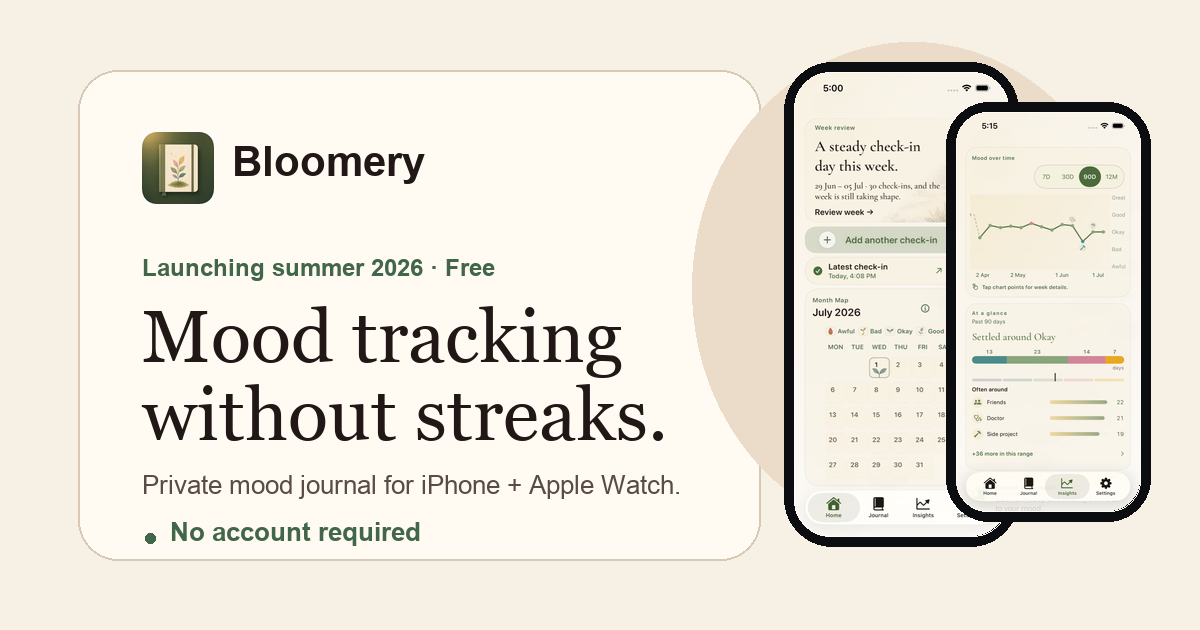
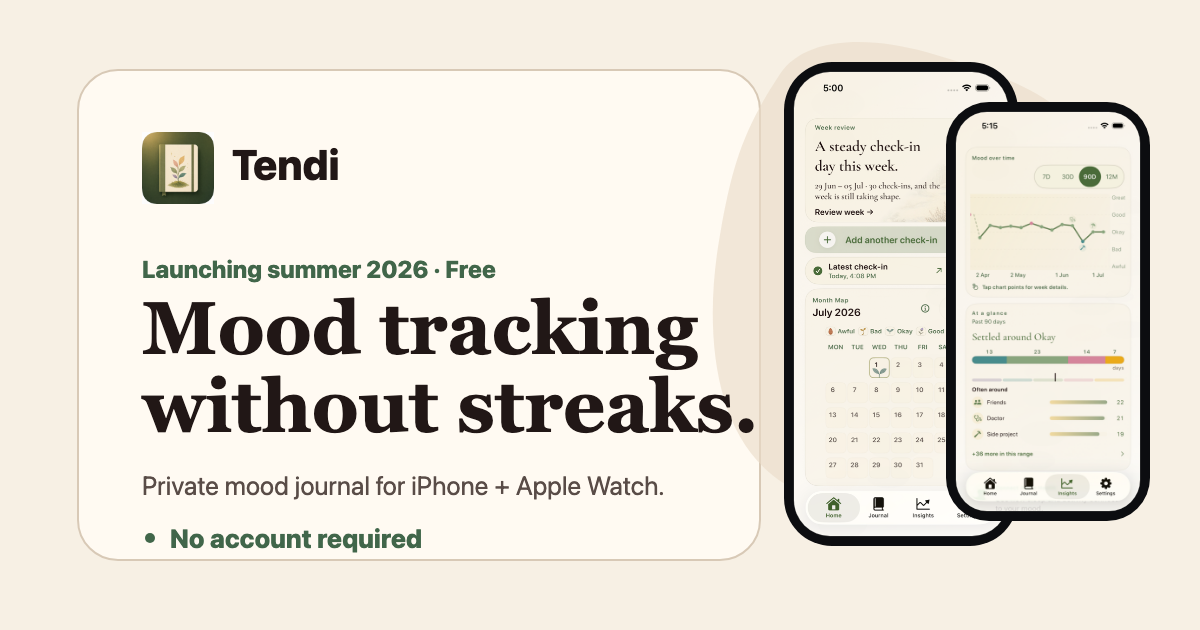
Rename launch site to Tendi

diff --git a/index.html b/index.html
@@ -3,25 +3,25 @@
 <head>
     <meta charset="UTF-8">
     <meta name="viewport" content="width=device-width, initial-scale=1.0">
-    <meta name="description" content="Bloomery is a private iPhone and Apple Watch mood journal for quick check-ins and smart insights with no streaks or guilt.">
+    <meta name="description" content="Tendi is a private iPhone and Apple Watch mood journal for quick check-ins and smart insights with no streaks or guilt.">
     <meta name="theme-color" content="#F7F0E4">
-    <title>Bloomery - Mood tracking without streaks.</title>
-    <link rel="canonical" href="https://bloomery.app/">
+    <title>Tendi: Mood Journal - Mood tracking without streaks.</title>
+    <link rel="canonical" href="https://tendijournal.app/">
     <meta property="og:type" content="website">
-    <meta property="og:site_name" content="Bloomery">
-    <meta property="og:title" content="Bloomery - Mood tracking without streaks.">
+    <meta property="og:site_name" content="Tendi">
+    <meta property="og:title" content="Tendi: Mood Journal - Mood tracking without streaks.">
     <meta property="og:description" content="Quick mood check-ins and smart insights for iPhone and Apple Watch.">
-    <meta property="og:url" content="https://bloomery.app/">
-    <meta property="og:image" content="https://bloomery.app/social-card.png">
+    <meta property="og:url" content="https://tendijournal.app/">
+    <meta property="og:image" content="https://tendijournal.app/social-card.png">
     <meta property="og:image:type" content="image/png">
     <meta property="og:image:width" content="1200">
     <meta property="og:image:height" content="630">
-    <meta property="og:image:alt" content="Bloomery - mood tracking without streaks.">
+    <meta property="og:image:alt" content="Tendi - mood tracking without streaks.">
     <meta name="twitter:card" content="summary_large_image">
-    <meta name="twitter:title" content="Bloomery - Mood tracking without streaks.">
+    <meta name="twitter:title" content="Tendi: Mood Journal - Mood tracking without streaks.">
     <meta name="twitter:description" content="Quick mood check-ins and smart insights for iPhone and Apple Watch.">
-    <meta name="twitter:image" content="https://bloomery.app/social-card.png">
-    <meta name="twitter:image:alt" content="Bloomery - mood tracking without streaks.">
+    <meta name="twitter:image" content="https://tendijournal.app/social-card.png">
+    <meta name="twitter:image:alt" content="Tendi - mood tracking without streaks.">
     <link rel="preload" href="assets/fonts/Fraunces-opsz-wght-latin.woff2" as="font" type="font/woff2" crossorigin>
     <link rel="stylesheet" href="styles.css">
     <link rel="icon" type="image/png" href="assets/favicon.png">
@@ -30,15 +30,15 @@
 <body>
     <a href="#main" class="skip-link">Skip to content</a>
 
-    <header class="site-header" aria-label="Bloomery website">
-        <a class="site-mark" href="index.html" aria-label="Bloomery home">
+    <header class="site-header" aria-label="Tendi website">
+        <a class="site-mark" href="index.html" aria-label="Tendi home">
             <img class="site-icon" src="assets/app-icon.png" alt="" width="34" height="34" decoding="async">
-            <span>Bloomery</span>
+            <span>Tendi</span>
         </a>
         <nav class="site-nav" aria-label="Primary">
             <a href="#inside">Inside the app</a>
             <a href="privacy.html">Privacy</a>
-            <a href="https://feedback.bloomery.app">Feedback</a>
+            <a href="https://feedback.tendijournal.app">Feedback</a>
             <a href="mailto:[email redacted]">Support</a>
             <a class="nav-cta" href="#join">Join the list</a>
         </nav>
@@ -55,7 +55,7 @@
                 </p>
 
                 <form class="waitlist-form" action="https://buttondown.com/api/emails/embed-subscribe/bloomery" method="post" target="popupwindow">
-                    <label class="visually-hidden" for="hero-email">Email address for Bloomery launch updates</label>
+                    <label class="visually-hidden" for="hero-email">Email address for Tendi launch updates</label>
                     <input id="hero-email" name="email" type="email" inputmode="email" autocomplete="email" placeholder="[email redacted]" required aria-describedby="hero-email-note">
                     <button type="submit">Notify me at launch</button>
                 </form>
@@ -63,7 +63,7 @@
 
                 <ul class="trust-strip">
                     <li>No account required</li>
-                    <li>Journal content stays off Bloomery servers</li>
+                    <li>Journal content stays off Tendi servers</li>
                     <li>No ads or journal-content AI training</li>
                 </ul>
             </div>
@@ -72,13 +72,13 @@
                 <figure class="device hero-device hero-device-home">
                     <picture>
                         <source srcset="assets/screenshot-home.webp" type="image/webp">
-                        <img src="assets/screenshot-home.png" alt="Bloomery Home screen showing this week's mood takeaway and a Month Map calendar." width="424" height="920" decoding="async" fetchpriority="high">
+                        <img src="assets/screenshot-home.png" alt="Tendi Home screen showing this week's mood takeaway and a Month Map calendar." width="424" height="920" decoding="async" fetchpriority="high">
                     </picture>
                 </figure>
                 <figure class="device hero-device hero-device-insights">
                     <picture>
                         <source srcset="assets/screenshot-insights.webp" type="image/webp">
-                        <img src="assets/screenshot-insights.png" alt="Bloomery Insights screen showing a mood-over-time chart and recent patterns." width="424" height="920" decoding="async">
+                        <img src="assets/screenshot-insights.png" alt="Tendi Insights screen showing a mood-over-time chart and recent patterns." width="424" height="920" decoding="async">
                     </picture>
                 </figure>
             </div>
@@ -97,7 +97,7 @@
         <section class="section" id="inside" aria-labelledby="inside-title">
             <div class="section-inner">
                 <div class="section-heading reveal">
-                    <p class="eyebrow">Inside Bloomery</p>
+                    <p class="eyebrow">Inside Tendi</p>
                     <h2 id="inside-title">Mood notes that stay useful, even when life gets uneven.</h2>
                 </div>
 
@@ -106,7 +106,7 @@
                         <figure class="device device--sm feature-device">
                             <picture>
                                 <source srcset="assets/screenshot-checkin.webp" type="image/webp">
-                                <img src="assets/screenshot-checkin.png" alt="Bloomery check-in screen showing the simple mood picker." width="424" height="920" loading="lazy" decoding="async">
+                                <img src="assets/screenshot-checkin.png" alt="Tendi check-in screen showing the simple mood picker." width="424" height="920" loading="lazy" decoding="async">
                             </picture>
                         </figure>
                         <div class="feature-copy">
@@ -120,7 +120,7 @@
                         <figure class="device device--sm feature-device">
                             <picture>
                                 <source srcset="assets/screenshot-entry-detail.webp" type="image/webp">
-                                <img src="assets/screenshot-entry-detail.png" alt="Bloomery entry detail screen with mood context, note, and activities. The pressed flower specimen represents the chosen emotion." width="424" height="920" loading="lazy" decoding="async">
+                                <img src="assets/screenshot-entry-detail.png" alt="Tendi entry detail screen with mood context, note, and activities. The pressed flower specimen represents the chosen emotion." width="424" height="920" loading="lazy" decoding="async">
                             </picture>
                         </figure>
                         <div class="feature-copy">
@@ -134,13 +134,13 @@
                         <figure class="device device--sm feature-device">
                             <picture>
                                 <source srcset="assets/screenshot-insights.webp" type="image/webp">
-                                <img src="assets/screenshot-insights.png" alt="Bloomery Insights screen showing a mood-over-time chart and recent patterns." width="424" height="920" loading="lazy" decoding="async">
+                                <img src="assets/screenshot-insights.png" alt="Tendi Insights screen showing a mood-over-time chart and recent patterns." width="424" height="920" loading="lazy" decoding="async">
                             </picture>
                         </figure>
                         <div class="feature-copy">
                             <p class="flow-step">Insights</p>
                             <h3>Let insights stay modest.</h3>
-                            <p>Bloomery can point out patterns in what you logged. It does not diagnose you or tell you what to do next.</p>
+                            <p>Tendi can point out patterns in what you logged. It does not diagnose you or tell you what to do next.</p>
                         </div>
                     </article>
                 </div>
@@ -151,7 +151,7 @@
             <div class="section-inner archive-layout">
                 <div class="archive-copy reveal">
                     <p class="eyebrow">Visual memory</p>
-                    <h2 id="evidence-title">No streaks to protect. Bloomery offers a record of what happened.</h2>
+                    <h2 id="evidence-title">No streaks to protect. Tendi offers a record of what happened.</h2>
                     <p>
                         Month Map gives entries calendar context. Journal keeps them easy to find. Herbarium preserves entries as pressed-specimen memories.
                     </p>
@@ -187,11 +187,11 @@
                 <div class="privacy-stack reveal">
                     <div>
                         <span>Account</span>
-                        <strong>No Bloomery account required</strong>
+                        <strong>No Tendi account required</strong>
                     </div>
                     <div>
                         <span>Journal</span>
-                        <strong>Journal content stays off Bloomery servers</strong>
+                        <strong>Journal content stays off Tendi servers</strong>
                     </div>
                     <div>
                         <span>Analytics</span>
@@ -202,7 +202,7 @@
                     <p class="eyebrow">Privacy</p>
                     <h2 id="privacy-title">Your journal stays off our servers.</h2>
                     <p>
-                        Bloomery stores your mood entries, notes, photos, voice notes, and insights on your device by default. If you enable iCloud sync, your data syncs through your personal Apple iCloud account, not a Bloomery journal server.
+                        Tendi stores your mood entries, notes, photos, voice notes, and insights on your device by default. If you enable iCloud sync, your data syncs through your personal Apple iCloud account, not a Tendi journal server.
                     </p>
                     <a class="inline-cta" href="privacy.html">Read the full policy</a>
                 </div>
@@ -217,10 +217,10 @@
                 </div>
                 <div class="founder-note">
                     <p>
-                        We started Bloomery after getting tired of mood-tracking apps that made absences feel like failures. We wanted a private place to track what changed, look at context that mattered, and return without being scolded.
+                        We started Tendi after getting tired of mood-tracking apps that made absences feel like failures. We wanted a private place to track what changed, look at context that mattered, and return without being scolded.
                     </p>
                     <p>
-                        Use Bloomery when it helps. Leave it alone when it doesn't. Your journal will still be there.
+                        Use Tendi when it helps. Leave it alone when it doesn't. Your journal will still be there.
                     </p>
                     <p class="signature">— Harry &amp; Vasso, Two Desks</p>
                 </div>
@@ -236,23 +236,23 @@
                 <div class="faq-list reveal">
                     <details>
                         <summary>Is my data private?</summary>
-                        <p>Yes. Journal content is stored on your device by default. If you enable iCloud sync, it syncs through your personal Apple iCloud account, not a Bloomery journal server.</p>
+                        <p>Yes. Journal content is stored on your device by default. If you enable iCloud sync, it syncs through your personal Apple iCloud account, not a Tendi journal server.</p>
                     </details>
                     <details>
-                        <summary>How much does Bloomery cost?</summary>
-                        <p>Bloomery will be free at launch.</p>
+                        <summary>How much does Tendi cost?</summary>
+                        <p>Tendi will be free at launch.</p>
                     </details>
                     <details>
                         <summary>When does it launch?</summary>
-                        <p>Bloomery is planned for summer 2026. Join the list and we will email when it is ready.</p>
+                        <p>Tendi is planned for summer 2026. Join the list and we will email when it is ready.</p>
                     </details>
                     <details>
                         <summary>Which devices are supported?</summary>
-                        <p>Bloomery supports iPhone on iOS 17.2 or later, with an Apple Watch companion app for watchOS 10 or later so you can make quick check-ins from your wrist.</p>
+                        <p>Tendi supports iPhone on iOS 17.2 or later, with an Apple Watch companion app for watchOS 10 or later so you can make quick check-ins from your wrist.</p>
                     </details>
                     <details>
                         <summary>Do I need an account?</summary>
-                        <p>No. Bloomery is built to work without an account.</p>
+                        <p>No. Tendi is built to work without an account.</p>
                     </details>
                 </div>
             </div>
@@ -266,7 +266,7 @@
                 </div>
                 <div class="closing-form-wrap">
                     <form class="waitlist-form" action="https://buttondown.com/api/emails/embed-subscribe/bloomery" method="post" target="popupwindow">
-                        <label class="visually-hidden" for="closing-email">Email address for Bloomery launch updates</label>
+                        <label class="visually-hidden" for="closing-email">Email address for Tendi launch updates</label>
                         <input id="closing-email" name="email" type="email" inputmode="email" autocomplete="email" placeholder="[email redacted]" required aria-describedby="closing-email-note">
                         <button type="submit">Join the list</button>
                     </form>
@@ -281,13 +281,13 @@
             <p>&copy; 2026 Two Desks</p>
             <nav class="footer-links" aria-label="Footer">
                 <a href="privacy.html">Privacy Policy</a>
-                <a href="https://feedback.bloomery.app">Feedback</a>
+                <a href="https://feedback.tendijournal.app">Feedback</a>
                 <a href="mailto:[email redacted]">Contact</a>
                 <a href="https://twodesks.app">Two Desks</a>
             </nav>
         </div>
         <p class="disclaimer">
-            Bloomery is a self-reflection and journaling tool. It is not intended to diagnose, treat, cure, or prevent any disease or mental health condition.
+            Tendi is a self-reflection and journaling tool. It is not intended to diagnose, treat, cure, or prevent any disease or mental health condition.
         </p>
     </footer>
 

diff --git a/privacy.html b/privacy.html
@@ -3,25 +3,25 @@
 <head>
     <meta charset="UTF-8">
     <meta name="viewport" content="width=device-width, initial-scale=1.0">
-    <meta name="description" content="How Bloomery stores journal content on your device, what can sync through iCloud, and what never goes to Bloomery servers.">
+    <meta name="description" content="How Tendi stores journal content on your device, what can sync through iCloud, and what never goes to Tendi servers.">
     <meta name="theme-color" content="#F7F0E4">
-    <title>Privacy Policy - Bloomery</title>
-    <link rel="canonical" href="https://bloomery.app/privacy.html">
+    <title>Privacy Policy - Tendi</title>
+    <link rel="canonical" href="https://tendijournal.app/privacy.html">
     <meta property="og:type" content="website">
-    <meta property="og:site_name" content="Bloomery">
-    <meta property="og:title" content="Privacy Policy - Bloomery">
-    <meta property="og:description" content="How Bloomery stores journal content on your device, what can sync through iCloud, and what never goes to Bloomery servers.">
-    <meta property="og:url" content="https://bloomery.app/privacy.html">
-    <meta property="og:image" content="https://bloomery.app/social-card.png">
+    <meta property="og:site_name" content="Tendi">
+    <meta property="og:title" content="Privacy Policy - Tendi">
+    <meta property="og:description" content="How Tendi stores journal content on your device, what can sync through iCloud, and what never goes to Tendi servers.">
+    <meta property="og:url" content="https://tendijournal.app/privacy.html">
+    <meta property="og:image" content="https://tendijournal.app/social-card.png">
     <meta property="og:image:type" content="image/png">
     <meta property="og:image:width" content="1200">
     <meta property="og:image:height" content="630">
-    <meta property="og:image:alt" content="Bloomery - a private mood journal without streak pressure.">
+    <meta property="og:image:alt" content="Tendi - a private mood journal without streak pressure.">
     <meta name="twitter:card" content="summary_large_image">
-    <meta name="twitter:title" content="Privacy Policy - Bloomery">
-    <meta name="twitter:description" content="How Bloomery stores journal content on your device, what can sync through iCloud, and what never goes to Bloomery servers.">
-    <meta name="twitter:image" content="https://bloomery.app/social-card.png">
-    <meta name="twitter:image:alt" content="Bloomery - a private mood journal without streak pressure.">
+    <meta name="twitter:title" content="Privacy Policy - Tendi">
+    <meta name="twitter:description" content="How Tendi stores journal content on your device, what can sync through iCloud, and what never goes to Tendi servers.">
+    <meta name="twitter:image" content="https://tendijournal.app/social-card.png">
+    <meta name="twitter:image:alt" content="Tendi - a private mood journal without streak pressure.">
     <link rel="preload" href="assets/fonts/Fraunces-opsz-wght-latin.woff2" as="font" type="font/woff2" crossorigin>
     <link rel="stylesheet" href="styles.css">
     <link rel="icon" type="image/png" href="assets/favicon.png">
@@ -31,7 +31,7 @@
     <a href="#main" class="skip-link">Skip to content</a>
 
     <header class="page-header">
-        <a href="index.html" class="brand-link">Bloomery</a>
+        <a href="index.html" class="brand-link">Tendi</a>
     </header>
 
     <main class="content-page" id="main">
@@ -40,75 +40,75 @@
 
         <section class="content-section highlight-section">
             <h2>The short version</h2>
-            <p>Bloomery is built to keep your journal private.</p>
+            <p>Tendi is built to keep your journal private.</p>
             <ul>
                 <li>Your mood entries, notes, activities, photos, voice notes, imports, exports, and insights are stored on your device by default.</li>
-                <li>You do not need a Bloomery account to use the app.</li>
+                <li>You do not need a Tendi account to use the app.</li>
                 <li>We do not sell your data, share it with advertisers, or use your journal content to train AI models.</li>
-                <li>If you turn on iCloud sync, Bloomery syncs through your personal Apple iCloud account. Bloomery cannot read your iCloud data.</li>
+                <li>If you turn on iCloud sync, Tendi syncs through your personal Apple iCloud account. Tendi cannot read your iCloud data.</li>
                 <li>Optional analytics are off by default and, if enabled, do not include journal text, mood notes, photos, voice recordings, HealthKit samples, or precise personal content.</li>
             </ul>
         </section>
 
         <section class="content-section">
-            <h2>What the Bloomery app stores locally</h2>
-            <p>Bloomery stores the data you create in the app on your device, including mood entries, notes, activities, photos, voice notes, settings, reminders, import/export state, and insights calculated from your entries. This data is used to run the app and show your journal, charts, summaries, and reminders.</p>
-            <p>Bloomery does not send your journal entries, note text, photos, voice notes, or local insight details to Bloomery servers.</p>
+            <h2>What the Tendi app stores locally</h2>
+            <p>Tendi stores the data you create in the app on your device, including mood entries, notes, activities, photos, voice notes, settings, reminders, import/export state, and insights calculated from your entries. This data is used to run the app and show your journal, charts, summaries, and reminders.</p>
+            <p>Tendi does not send your journal entries, note text, photos, voice notes, or local insight details to Tendi servers.</p>
         </section>
 
         <section class="content-section">
             <h2>Optional iCloud sync</h2>
-            <p>If you enable iCloud sync, Bloomery uses Apple's servers through your personal iCloud account. Your data syncs between your Apple devices through Apple's infrastructure. Bloomery does not receive, host, or read your synced journal data.</p>
-            <p>You can turn iCloud sync off in Bloomery settings. You can also manage iCloud data through Apple's iCloud settings.</p>
+            <p>If you enable iCloud sync, Tendi uses Apple's servers through your personal iCloud account. Your data syncs between your Apple devices through Apple's infrastructure. Tendi does not receive, host, or read your synced journal data.</p>
+            <p>You can turn iCloud sync off in Tendi settings. You can also manage iCloud data through Apple's iCloud settings.</p>
         </section>
 
         <section class="content-section">
             <h2>HealthKit</h2>
-            <p>If you grant Apple Health access, Bloomery can read supported HealthKit data such as sleep, steps, and workouts for local insights, and can write supported state-of-mind samples where available. If you turn on Cycle Insights, Bloomery also requests access to menstrual-flow records for local insights.</p>
-            <p>HealthKit access is optional and controlled by iOS. HealthKit data is processed on device. Bloomery does not send HealthKit samples to Bloomery servers or analytics providers.</p>
+            <p>If you grant Apple Health access, Tendi can read supported HealthKit data such as sleep, steps, and workouts for local insights, and can write supported state-of-mind samples where available. If you turn on Cycle Insights, Tendi also requests access to menstrual-flow records for local insights.</p>
+            <p>HealthKit access is optional and controlled by iOS. HealthKit data is processed on device. Tendi does not send HealthKit samples to Tendi servers or analytics providers.</p>
         </section>
 
         <section class="content-section">
             <h2>Photos, voice notes, and imports</h2>
-            <p>Photos, voice notes, and imported journal data are stored locally in your device's protected app storage. If iCloud sync is enabled, this content may sync with Apple's servers through your personal iCloud account. Bloomery does not upload this content to Bloomery servers.</p>
+            <p>Photos, voice notes, and imported journal data are stored locally in your device's protected app storage. If iCloud sync is enabled, this content may sync with Apple's servers through your personal iCloud account. Tendi does not upload this content to Tendi servers.</p>
         </section>
 
         <section class="content-section">
             <h2>Optional analytics</h2>
-            <p>Bloomery uses TelemetryDeck for optional app analytics. Analytics are off by default. If you enable them, Bloomery may send categorical product-interaction events and an anonymized device or app identifier so we can understand which app areas are used and whether errors occur.</p>
+            <p>Tendi uses TelemetryDeck for optional app analytics. Analytics are off by default. If you enable them, Tendi may send categorical product-interaction events and an anonymized device or app identifier so we can understand which app areas are used and whether errors occur.</p>
             <p>Analytics events do not include journal text, mood notes, photos, voice recordings, HealthKit samples, email addresses, precise location, or advertising identifiers. Analytics are not used for tracking or advertising.</p>
         </section>
 
         <section class="content-section">
             <h2>This website</h2>
-            <p>The Bloomery website does not include client-side analytics scripts. Cloudflare may process limited operational data for hosting, security, caching, and abuse prevention.</p>
-            <p>If you join the launch-updates list, your email address is sent to Buttondown so we can email you about Bloomery's launch. We use that address for launch updates only. You can unsubscribe from those emails at any time, and we will keep the address only while the list is needed or until you unsubscribe.</p>
+            <p>The Tendi website does not include client-side analytics scripts. Cloudflare may process limited operational data for hosting, security, caching, and abuse prevention.</p>
+            <p>If you join the launch-updates list, your email address is sent to Buttondown so we can email you about Tendi's launch. We use that address for launch updates only. You can unsubscribe from those emails at any time, and we will keep the address only while the list is needed or until you unsubscribe.</p>
             <p>If you contact us by email, we receive your email address and any information you choose to include. Please do not include sensitive journal content unless you want us to see it.</p>
         </section>
 
         <section class="content-section">
             <h2>Third-party services</h2>
-            <p>Bloomery currently uses Apple platform services, including iCloud/CloudKit and HealthKit where you enable them, and TelemetryDeck for optional app analytics. The website is hosted through GitHub Pages with Cloudflare in front of bloomery.app. Buttondown processes email addresses submitted through the website launch-updates form.</p>
+            <p>Tendi currently uses Apple platform services, including iCloud/CloudKit and HealthKit where you enable them, and TelemetryDeck for optional app analytics. The website is hosted through GitHub Pages with Cloudflare in front of tendijournal.app. Buttondown processes email addresses submitted through the website launch-updates form.</p>
             <p>Journal content is never sent to Buttondown and is not part of the launch-updates list.</p>
-            <p>We do not share Bloomery journal content with advertising networks or data brokers.</p>
+            <p>We do not share Tendi journal content with advertising networks or data brokers.</p>
         </section>
 
         <section class="content-section">
             <h2>Your choices</h2>
             <ul>
-                <li>Use Bloomery without an account.</li>
+                <li>Use Tendi without an account.</li>
                 <li>Keep analytics disabled, or disable analytics later in Settings.</li>
                 <li>Turn iCloud sync off in Settings.</li>
                 <li>Manage HealthKit permissions in iOS Settings.</li>
-                <li>Export your data from Bloomery.</li>
-                <li>Delete Bloomery data from your device by deleting entries or deleting the app.</li>
+                <li>Export your data from Tendi.</li>
+                <li>Delete Tendi data from your device by deleting entries or deleting the app.</li>
                 <li>Ask us to delete support-email records by contacting us.</li>
             </ul>
         </section>
 
         <section class="content-section">
             <h2>Who we are</h2>
-            <p>Bloomery is built by Two Desks. Contact us at <a href="mailto:[email redacted]">[email redacted]</a>.</p>
+            <p>Tendi is built by Two Desks. Contact us at <a href="mailto:[email redacted]">[email redacted]</a>.</p>
         </section>
 
         <section class="content-section">

diff --git a/README.md b/README.md
@@ -1,10 +1,10 @@
-# Bloomery Launch Site
+# Tendi Launch Site
 
-Static GitHub Pages site for [bloomery.app](https://bloomery.app), the public support, privacy, and launch page for Bloomery.
+Static GitHub Pages site for [tendijournal.app](https://tendijournal.app), the public support, privacy, and launch page for Tendi.
 
 ## Site Role
 
-The site should communicate the current Bloomery product:
+The site should communicate the current Tendi product:
 
 - Mood journaling without streaks, guilt, or missed-day pressure.
 - Quick check-ins, practical journal history, Month Map, Year Map, Herbarium, and careful insights.